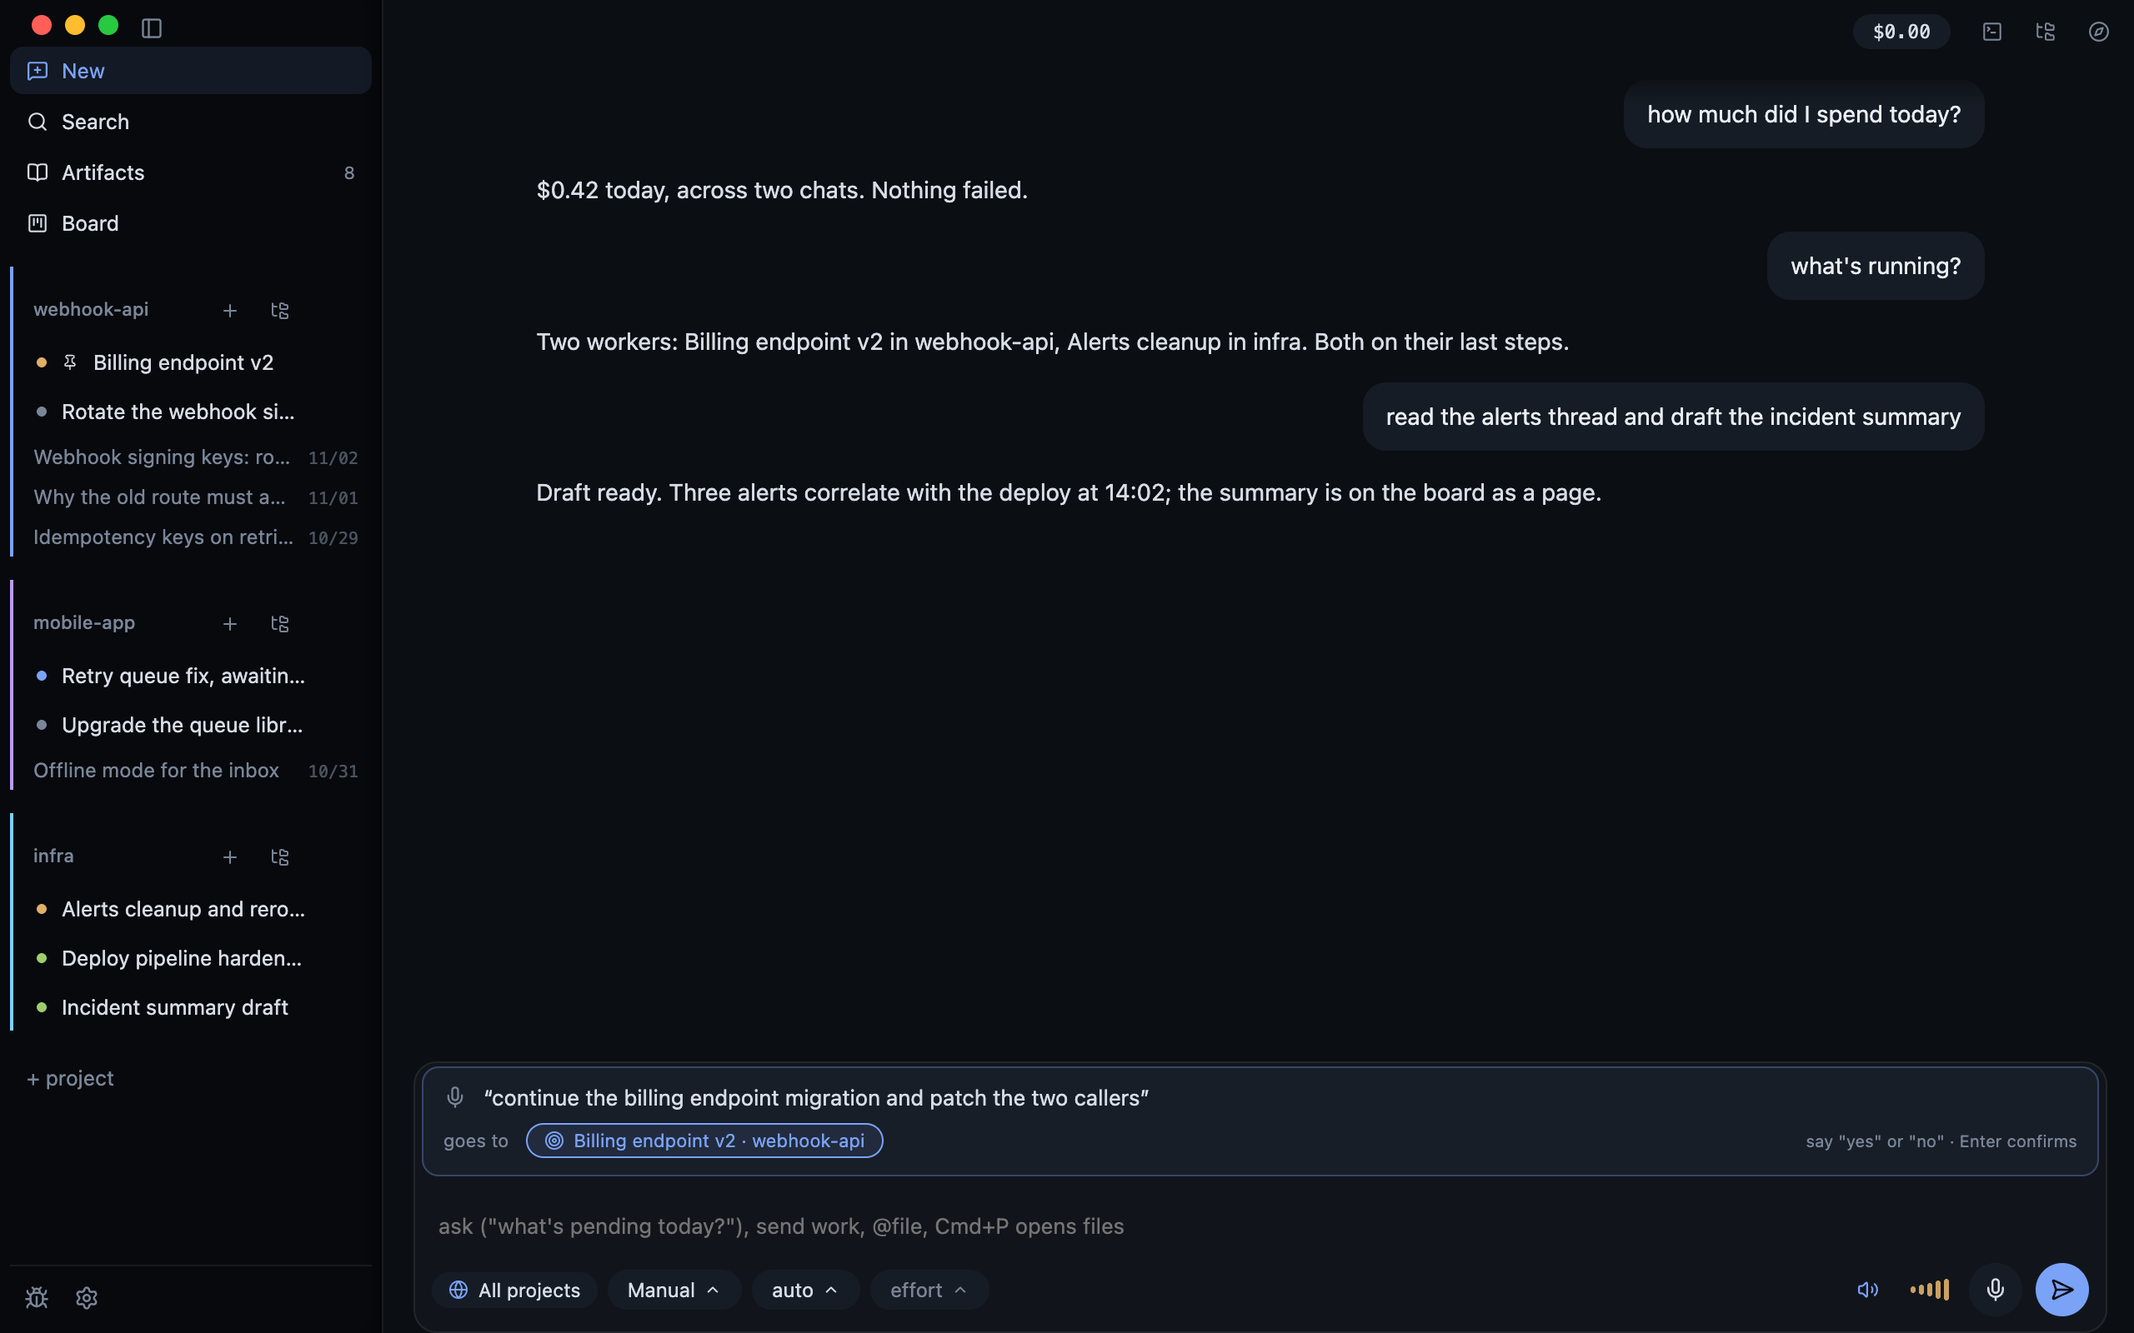
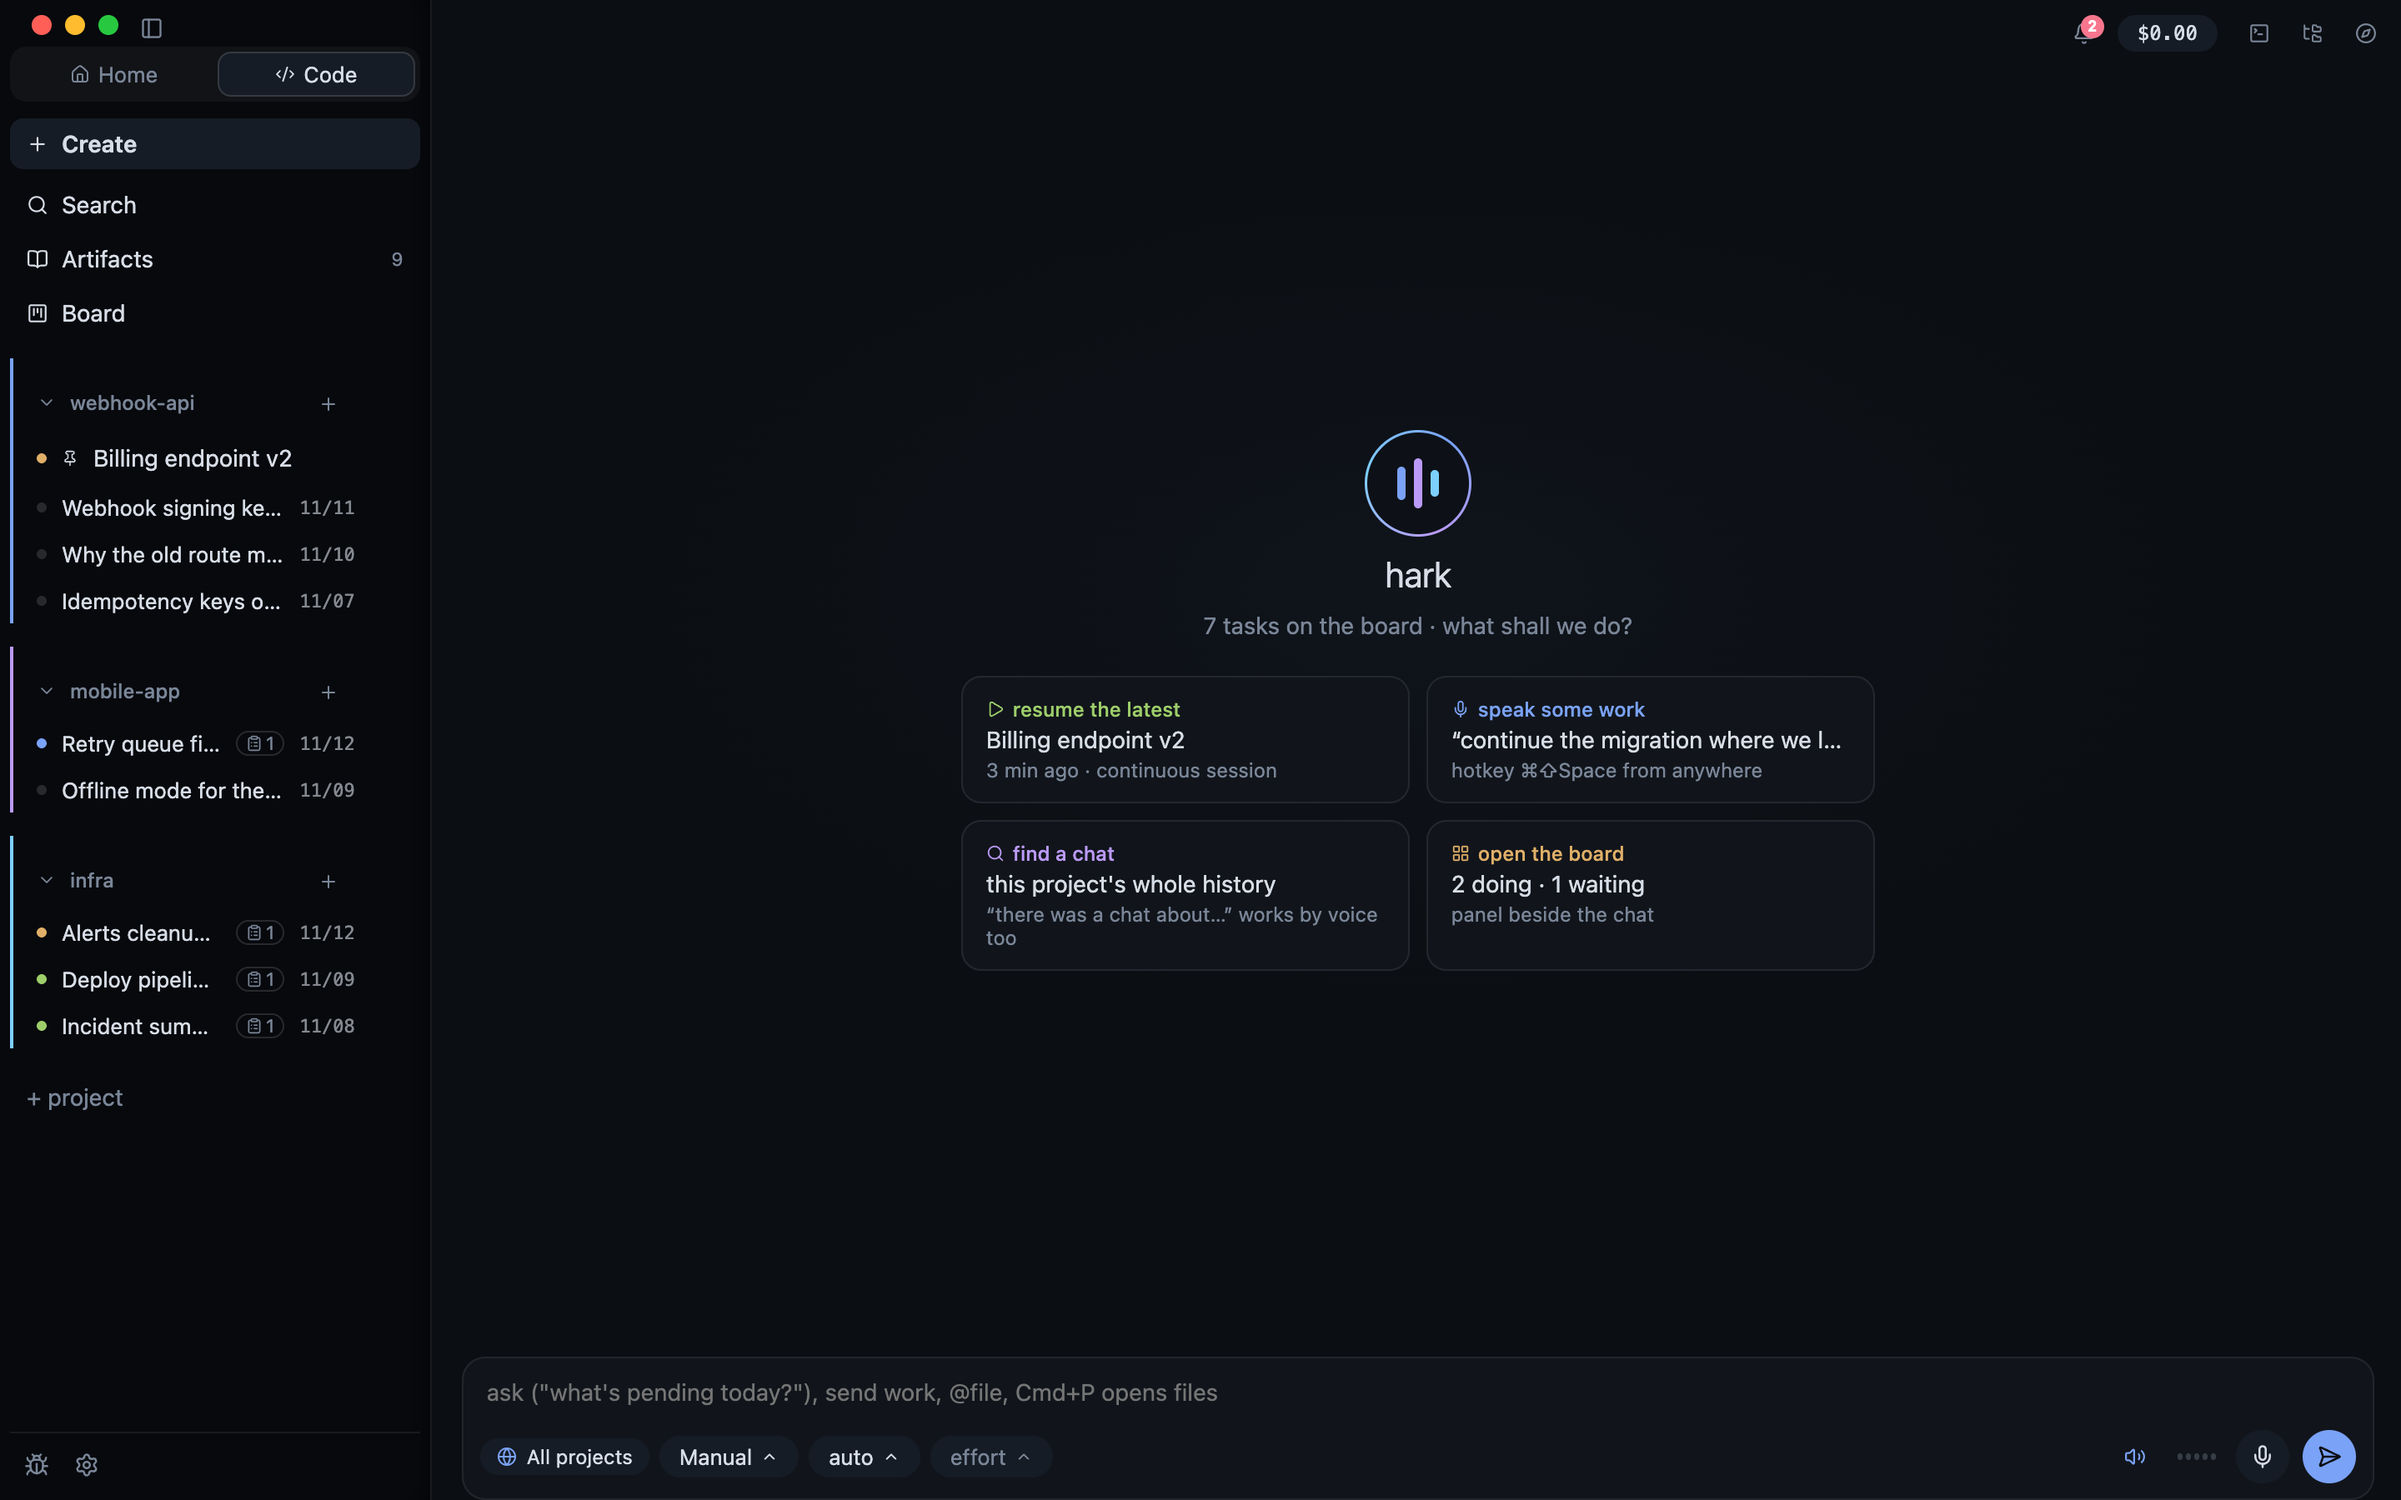
docs: the readme and the artifacts manual catch up with 0.10
Six fresh screenshots of the demo at 1440×900 (home, a chat with the
session bar and a page beside it, the gallery, a sheet with the agent's
changes and its comments, the board, the costs) replace the ones from
0.9. The readme says what the session bar is, what the six page kinds
are, and how pages are edited and commented; the artifacts manual gains
the json kinds, the versions, the comments and the pane beside a chat.
Linux and Windows are named as the next releases. The generated Tauri
schemas follow the bumped plugins.

diff --git a/README.md b/README.md
@@ -61,7 +61,8 @@ in — the [Claude Code CLI](https://code.claude.com) gets the richest experienc
 plugin — and ~500MB of disk for the speech model. The first-run wizard checks
 all of it, downloads the model and asks for the microphone once.
 
-Linux is on the backlog — the voice layer leans on macOS-native pieces today.
+Linux and Windows are next: the voice layer leans on macOS-native pieces
+today (`say`, Metal), and the ports are the work of the coming releases.
 
 ### Build from source
 
@@ -80,41 +81,63 @@ and how a release is cut.
 
 ## What it looks like
 
-<img src="docs/img/home.png" width="820" alt="The main window: every project in the sidebar, the general chat in front, and a voice round over the composer showing what it heard and where it goes">
+<img src="docs/img/home.png" width="820" alt="The home: every project in the sidebar, a greeting with the day's count, four ways in (resume the latest, speak some work, find a chat, open the board) and the composer">
 
-**One window that is your assistant.** A persistent chat backed by a long-lived
-Claude Code session with your full settings — MCP servers and tools included. It
-has a name, a personality file it maintains itself, and it speaks its answers.
-Cheap questions never reach it: they are answered from the local index for zero
-tokens, or by a bare one-shot ask that costs cents.
+**One window that is your assistant.** The home greets you with the day:
+what to resume, what to say, where the board stands. Behind it, a
+persistent chat backed by a long-lived Claude Code session with your full
+settings — MCP servers and tools included. It has a name, a personality
+file it maintains itself, and it speaks its answers. Cheap questions never
+reach it: they are answered from the local index for zero tokens, or by a
+bare one-shot ask that costs cents.
 
-<img src="docs/img/task.png" width="820" alt="A chat with its rail: the transcript with a permission card, and the files window, the diff and a terminal stacked beside it">
+<img src="docs/img/task.png" width="820" alt="A chat with its rail: the transcript with a permission card, the session bar (environment, context, connectors, outputs, changes with the diff, background tasks) and a spreadsheet page open beside it">
 
 **Chats that read like Claude Code.** Full session history in the sidebar,
 markdown transcripts with folded tool calls and grouped command bursts,
 deliverable file cards, a CSV-as-table viewer. Every privileged tool call
 renders as an inline permission card you can answer by click, keyboard or
 voice. Beside the chat, a rail of panels that belong to that chat and stack:
-a real PTY terminal, the files window with its editor, the workspace diff
-(every file changed since the last commit, a tick per file you have read)
-and a browser in a webview of its own. Come back to a chat and its shell,
-its open file and its page are still there.
+a real PTY terminal, the files window with its editor, a browser in a
+webview of its own, and the **session bar** — environment, context, the
+MCP connectors the session opened, what it wrote, the git changes (the diff
+of every file changed since the last commit, and "commit the changes" that
+hands the ask to the chat), the commands it left running in the background,
+and what it cost. A page the agent wrote opens beside the chat too, as its
+own panel, never instead of the chat. Come back to a chat and its shell, its
+open file and its page are still there.
 
 **Two keys, zero tokens.** `Cmd+P` opens the files window with its filter
 ready; `Cmd+K` opens *Procurar*, one palette over everything the window
 knows — chats, pages, projects, the Claude Code history, a few actions —
 with a tab per kind, answered from the local index.
 
-<img src="docs/img/artifacts.png" width="820" alt="The artifacts view: one tree per space on the left, a decision record open with the chat it was born in">
+<img src="docs/img/artifacts.png" width="820" alt="The artifacts view: one tree per space on the left, the gallery of a space with a thumbnail per page drawn from the file itself">
 
 **Artifacts: the documentation of this machine.** Pages you and the agents
 write, kept as a tree the way a wiki keeps them: one space per project plus
-a personal one, markdown or a single HTML file (a slide deck, a design)
-rendered in an isolated frame. The agent writes a page through a skill Hark
-installs, the tree adopts it and remembers which chat it was born in, and
-"levar para…" on a page takes it into any chat — Hark, the one it was born
-in, a recent one or a new one — with the page attached. Plain files
-under `~/.hark/artifacts`; nothing costs tokens to browse.
+a personal one. Six kinds: a document (markdown), a deck and a design (one
+HTML file, rendered in an isolated frame with Hark's own pager or canvas),
+and three the agent writes as JSON and Hark computes — a **spreadsheet**
+with formulas, a **whiteboard** of notes, groups, arrows and a timeline,
+and a **dashboard** over data that lives on this machine. The gallery
+shows each page as a thumbnail drawn from its file. The agent writes a page
+through a skill Hark installs, the tree adopts it and remembers which chat
+it was born in, and "take to…" on a page carries it into any chat — Hark,
+the one it was born in, a recent one or a new one. Plain files under
+`~/.hark/artifacts`; nothing costs tokens to browse.
+
+<img src="docs/img/sheet.png" width="820" alt="A spreadsheet page: the cells the agent changed since the last accepted version marked in green, undo and accept, and the comments column beside it with one comment answered by hark">
+
+**Edited by hand, reviewed by comment.** Every page is yours to edit in
+place: cells, formulas, rows and columns of a sheet; notes, arrows and
+milestones of a board; the queries of a dashboard; the words of a deck or
+a design, double-clicked in the frame. What the agent changed since you
+last accepted is marked, with undo and accept; every edit of yours is a
+version the page keeps. A comment sits beside the page, anchored to a cell,
+a note, a slide or a mark you drew over it; write `@hark` in it and the
+comment becomes a request to the chat the page was born in, answered when
+that chat writes the page again.
 
 <img src="docs/img/board.png" width="820" alt="A kanban board where every card is a live agent session">
 
@@ -259,7 +282,8 @@ written by Hark, so their chats are searchable and resumable inside Hark too.
 nothing beyond the agent subscriptions you already have.
 
 **Where do the pages the agent writes go?** Into `~/.hark/artifacts/<space>/`,
-as markdown or html files you can open with anything. Hark keeps an
+as markdown, html or json files (`.sheet.json`, `.board.json`, `.dash.json`)
+you can open with anything. Hark keeps an
 `index.json` beside them for the tree order and the origin chat, and
 reconciles it with the disk on every read: a file you drop there by hand
 becomes a page, a file you delete leaves the tree.

diff --git a/docs/ARTIFACTS.md b/docs/ARTIFACTS.md
@@ -14,6 +14,12 @@ app only reads them back, and nothing costs tokens to browse.
     decisoes/
       adr-004.md           a page under "Decisões"
     pranchas.html          a page (html: slides, designs — one file)
+    custos.sheet.json      a spreadsheet the agent writes and Hark computes
+    frentes.board.json     a whiteboard: notes, groups, links, a timeline
+    entregas.dash.json     a dashboard over data on this machine
+    entregas.dash.cache.json   its numbers, cached beside it (Hark's file)
+    custos.comments.json   the comments of a page, beside it
+    .versions/             the versions a page keeps (Hark's folder)
   .claude/skills/hark-artifact/SKILL.md   the skill Hark installs (see below)
 ```
 
@@ -21,18 +27,20 @@ A **space** is a folder. The app lists the folders on disk plus one per
 registered project plus `pessoal`, so a project has a space before its
 first page. Hidden folders and symlinks are never spaces.
 
-A **page** is a `.md` or `.html` file inside a space, at any depth. Its
-`id` is the slug of its path; its title is the first `# heading` of a
-markdown page, or the file name. Its **kind** (`doc`, `slides`, `design`)
-decides the icon and how it opens: markdown is a document; an html page
-says what it is with `<meta name="hark-kind" content="slides">`, and
-without the tag a run of `class="slide"` sections reads as a deck,
-anything else as a document. The `⋯` on a row changes it by hand. Folders are not nodes: a page's parent is
+A **page** is a `.md`, `.html`, `.sheet.json`, `.board.json` or
+`.dash.json` file inside a space, at any depth. Its `id` is the slug of its
+path; its title is the first `# heading` of a markdown page, the `title`
+of a json page, or the file name. Its **kind** (`doc`, `slides`, `design`,
+`sheet`, `board`, `data`) decides the icon and how it opens: markdown is a
+document; an html page says what it is with
+`<meta name="hark-kind" content="slides">`, and without the tag a run of
+`class="slide"` sections reads as a deck, anything else as a document; a
+json page is what its extension says. The `⋯` on a row changes it by hand. Folders are not nodes: a page's parent is
 the page whose slug names the folder it sits in, and a folder with no such
 page hangs its children at the root.
 
 `index.json` is Hark's. It keeps, per node: `id`, `title`, `path`,
-`parent`, `kind` (`doc`, `slides`, `design`), `origin` (the session and
+`parent`, `kind`, `origin` (the session and
 task that wrote it), `links`, `updated_at`, and the children `order`. On
 every read the tree **reconciles** with the disk: a file nobody indexed is
 adopted at the root, a node whose file is gone leaves the tree (its
@@ -51,7 +59,10 @@ under it, `+` on a row makes a child, `⋯` renames or removes. Removing
 deletes the file and its children: it is your file, so it asks nothing
 twice.
 
-The home of a space shows what moved last. A page opens with its
+The home of a space is a gallery: a tab per kind, tiles to create a page
+of each, and a card per page with a thumbnail drawn from the file itself
+(a document's first lines, a sheet's first cells, a board at scale, a
+dashboard's panels, a deck's first slide). A page opens with its
 breadcrumb, kind, last touch and the chat it was born in (the chip opens
 that chat). Markdown renders and edits in place; HTML renders in an
 `<iframe sandbox>`: a document opens with scripts off, a deck or a design
@@ -65,6 +76,50 @@ the file; a design is a canvas at its own
 size (`<meta name="hark-canvas" content="WxH">`) on a board Hark zooms and
 pans; a document is a reading column. "Fonte" edits the source. **Ligações**, the rail panel beside a page, lists
 the origin chat, child pages and citations.
+
+**Beside a chat.** A page the agent wrote, clicked in the session bar's
+outputs or through its `hark://` link in a reply, opens in an *artifact*
+panel of the chat's rail, stacked with the terminal and the files: the
+page alone, with its source, comment and "take to…" controls. The panel's
+expand button opens the full view above with "back to chat" at the top of
+the tree. The chat is never left for a page.
+
+## The json kinds
+
+Three kinds are data the agent writes as JSON and Hark computes and draws,
+so the agent never spends tokens laying anything out:
+
+- **Sheet** (`.sheet.json`): tabs of cells with values and formulas (`SUM`,
+  `AVERAGE`, `MIN`, `MAX`, `COUNTIF`, `SUMIF`, `IF`, `ROUND`, `TODAY`,
+  references and ranges), formats and widths per column. Hark computes the
+  formulas; `#REF!` and `#NOME?` are shown, never hidden.
+- **Board** (`.board.json`): notes with colour and text, groups, links
+  (arrows) between notes, and a timeline of milestones. The agent writes
+  no coordinates: Hark lays the board out.
+- **Data** (`.dash.json`): panels over sources that live on this machine
+  (a csv, a sqlite file, a command), with queries, a cadence and the
+  numbers cached beside the page.
+
+The skill tells the agent the exact shape of each. `docs/USAGE.md`
+(*Artifacts*) says how each kind is edited by hand.
+
+## Editing and comments
+
+Every page is the person's to edit, and every edit is a version the page
+keeps (the `.versions/` folder; "n versions" on the page lists them). What
+the agent changed since the last version the person accepted is marked,
+with "undo all" and "accept". A sheet is edited cell by cell, with rows and
+columns moved, inserted and removed (formulas follow); a board's notes,
+links, groups and milestones by hand; a dashboard's panels, queries and
+sources in forms; the words of an html page in place, by double-click in
+the frame; markdown with its source beside the preview.
+
+Comments live beside the page, in `<page>.comments.json`, each anchored to
+the whole page, a cell, a note, a panel, a slide, a quoted run of words or
+a region drawn over an html page with the markup bar (pen, rectangle,
+text). A comment that says `@hark` becomes a request: "send to hark" takes
+it to the chat the page was born in (or the chat the person picks), and
+the comment reads "answered by hark" when that chat writes the page again.
 
 ## How the agents use pages
 
